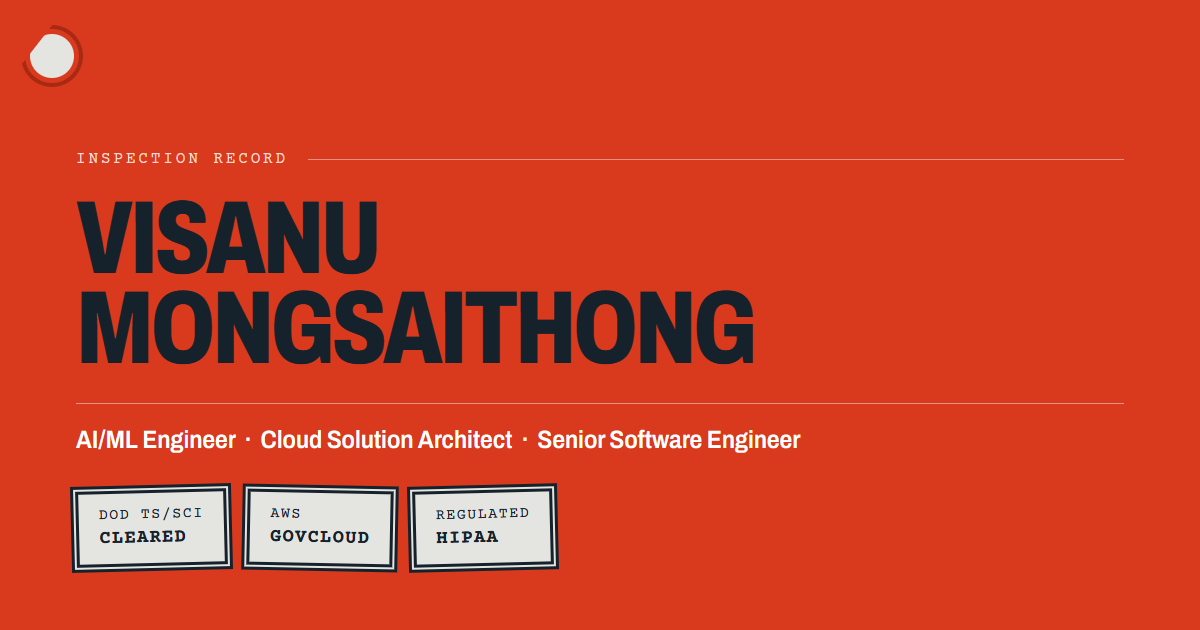
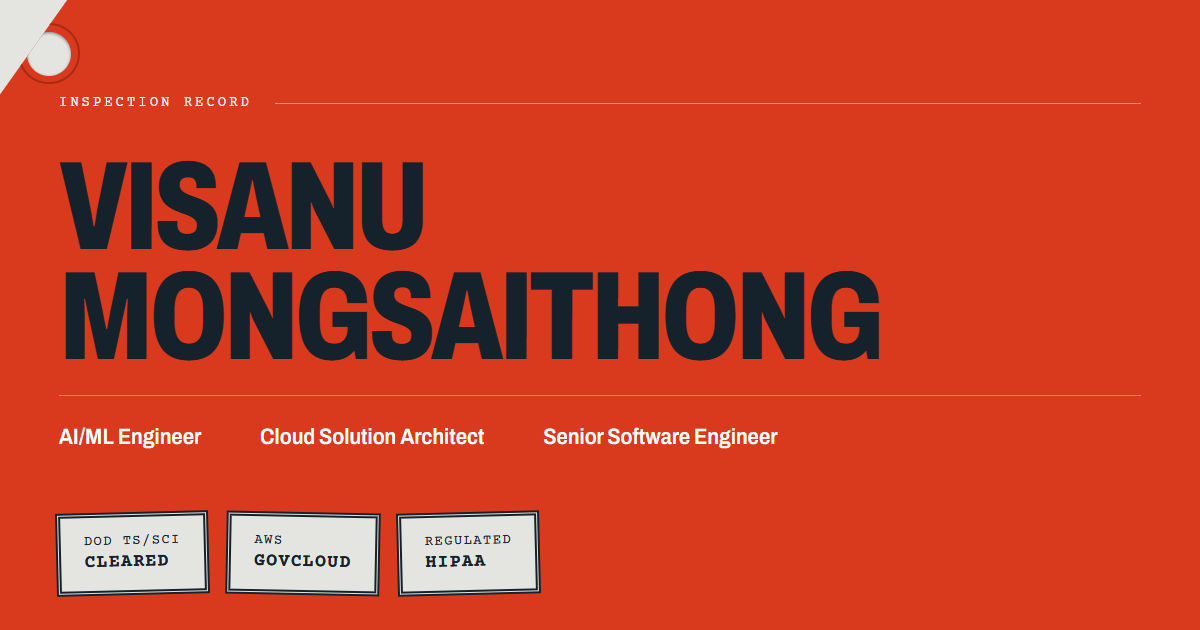
Make the OG card reproducible from the design system
The card's source lived only in a temp scratchpad, so the README told the
owner to regenerate an image whose template did not exist in the repo.
It now ships as tools/og-card.html plus a render script.

Rewritten to link the site's own styles.css and reuse its real classes
instead of restating the world in parallel px values. The card can no
longer drift from the page, and the only absolute value left is the
canvas scale the fixed raster is built on, which is what lets the rem
ramp apply at all. Regenerated from the new template.

Also corrects the design sidecar, which still described section headings
as sitting under a 2px slate rule after they became a red stock edge.
The narrative entry listing 3px red / 2px slate / 1px hairline is
untouched because it is still accurate — capability clusters keep the
slate rule.

diff --git a/tools/og-card.html b/tools/og-card.html
@@ -1,0 +1,58 @@
+<!doctype html>
+<html lang="en">
+<head>
+<meta charset="utf-8">
+<title>OG card source — 1200×630</title>
+<!-- Reuses the page's own stylesheet and classes rather than reimplementing
+     the world in parallel values, so the card cannot drift from the site.
+     Scaling happens on the root font size; every type step still comes from
+     the DESIGN.md ramp. -->
+<link rel="stylesheet" href="../styles.css">
+<style>
+  /* Canvas scale, not a type step: the card is a fixed 1200x630 raster viewed
+     small, so the whole rem ramp is scaled up from the root rather than any
+     individual size being overridden. */
+  :root { --og-canvas-scale: 21px; }
+  html { font-size: var(--og-canvas-scale); }
+  body {
+    width: 1200px;
+    height: 630px;
+    overflow: hidden;
+  }
+  .tag {
+    width: 1200px;
+    height: 630px;
+    padding: var(--s6) var(--s5) var(--s4);
+    display: flex;
+    flex-direction: column;
+    justify-content: space-between;
+  }
+  .tag__body { max-width: none; margin: 0; }
+  .name { margin-bottom: var(--s3); }
+  .titles { border-bottom: none; margin-bottom: 0; padding-bottom: 0; }
+  .stamps { margin-bottom: 0; }
+</style>
+</head>
+<body>
+<header class="tag">
+  <div class="tag__punch" aria-hidden="true"><span class="tag__eyelet"></span></div>
+  <div class="tag__body">
+    <p class="field field--head">
+      <span class="field__label">Inspection record</span>
+      <span class="field__rule"></span>
+    </p>
+    <h1 class="name">Visanu<br>Mongsaithong</h1>
+    <ul class="titles">
+      <li class="titles__item">AI/ML Engineer</li>
+      <li class="titles__item">Cloud Solution Architect</li>
+      <li class="titles__item">Senior Software Engineer</li>
+    </ul>
+  </div>
+  <ul class="stamps">
+    <li class="stamp">DoD TS/SCI<br><b>Cleared</b></li>
+    <li class="stamp stamp--tilt">AWS<br><b>GovCloud</b></li>
+    <li class="stamp">Regulated<br><b>HIPAA</b></li>
+  </ul>
+</header>
+</body>
+</html>

diff --git a/README.md b/README.md
@@ -56,8 +56,23 @@ Rules that matter when generating:
 - Because `/public/assets/*` is served `immutable`, **a changed asset needs a changed
   filename** or browsers will keep the stale one.
 
-`public/assets/og-image.png` was composited in build from the page's own tokens rather than
-generated. Regenerate it at 1200×630 if the visual world changes.
+`public/assets/og-image.png` is composited in build from the page's own tokens rather than
+generated. Its source is `tools/og-card.html`. Regenerate after any change to the visual
+world:
+
+```bash
+npm i playwright                                # only dependency, only for this script
+python -m http.server 8899 --bind 127.0.0.1     # or any static server
+node tools/render-og.mjs http://127.0.0.1:8899/tools/og-card.html public/assets/og-image.png
+```
+
+Serve it over HTTP rather than opening the file directly — the self-hosted fonts will not
+load over `file://`.
+
+`tools/og-card.html` links the site's own `styles.css` and reuses its real classes rather
+than restating the world in parallel values, so the card cannot drift from the page. It is a
+fixed 1200×630 raster, so the whole rem ramp is scaled from the root
+(`--og-canvas-scale`) instead of any individual size being overridden.
 
 ## Deploys
 
